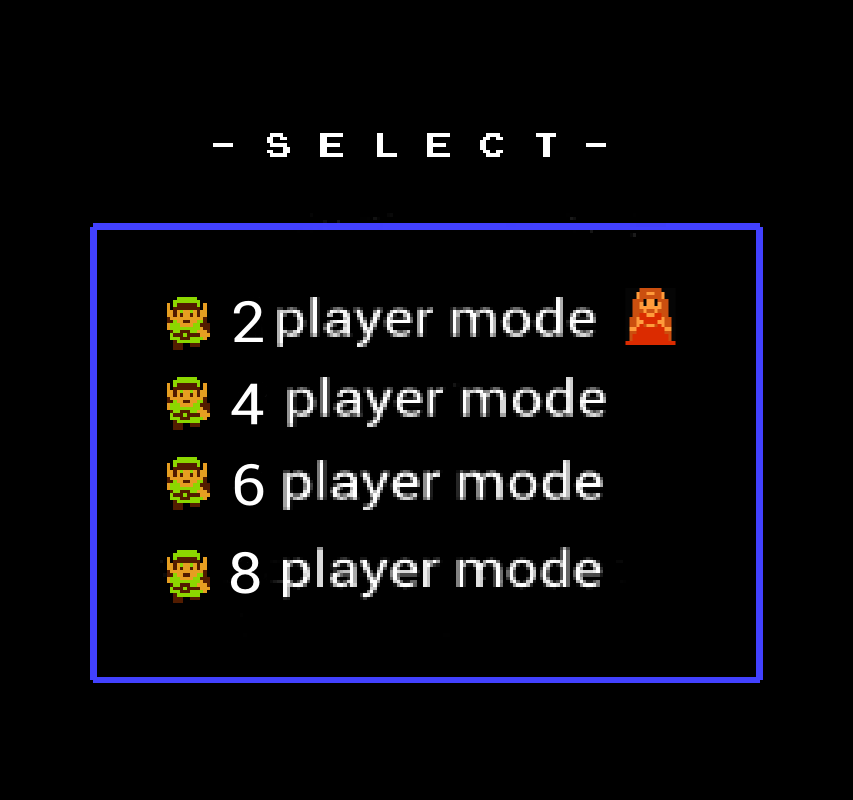
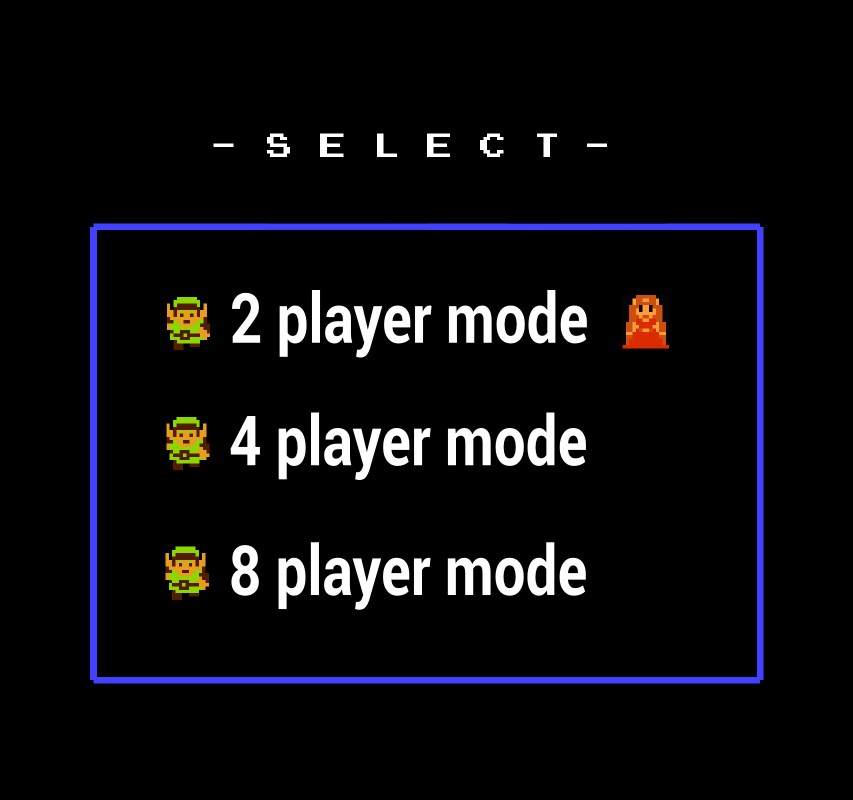
arreglados los fallos en el menu de inicio

diff --git a/links'sBattles.py b/links'sBattles.py
@@ -63,7 +63,7 @@ menuMusic()
 while True:
     if menu:
         surface.blit(startGame, (173,0))
-    elif modeSelector >= 0 and modeSelector <= 4: 
+    elif modeSelector >= 0 and modeSelector <= 3: 
         if modeSelector == 0:
             selector = pygame.image.load("assets/titleScreens/selector0.png")
         elif modeSelector == 1:
@@ -105,19 +105,6 @@ while True:
                     selector = pygame.image.load("assets/titleScreens/selector3(1).png")
                     princess = 1
                     currentMoment = GAME_TIME.get_ticks()
-        elif modeSelector == 4:
-            if princess == 0:
-                selector = pygame.image.load("assets/titleScreens/selector4(0).png")
-                princess = 2
-            elif GAME_TIME.get_ticks() - currentMoment >= 500:
-                if princess == 1:
-                    selector = pygame.image.load("assets/titleScreens/selector4(0).png")
-                    princess = 2
-                    currentMoment = GAME_TIME.get_ticks()
-                elif princess == 2:
-                    selector = pygame.image.load("assets/titleScreens/selector4(1).png")
-                    princess = 1
-                    currentMoment = GAME_TIME.get_ticks()
         surface.blit(selector, (173,0))
     if combat:
         if roundFinished:
@@ -141,7 +128,7 @@ while True:
                     menu = False
                     modeSelector = 0
             if modeSelector >= 0 and modeSelector <= 4:
-                if event.key == pygame.K_DOWN and modeSelector is not 4:
+                if event.key == pygame.K_DOWN and modeSelector is not 3:
                     modeSelector += 1
                     princess = 0
                     currentMoment = GAME_TIME.get_ticks()
